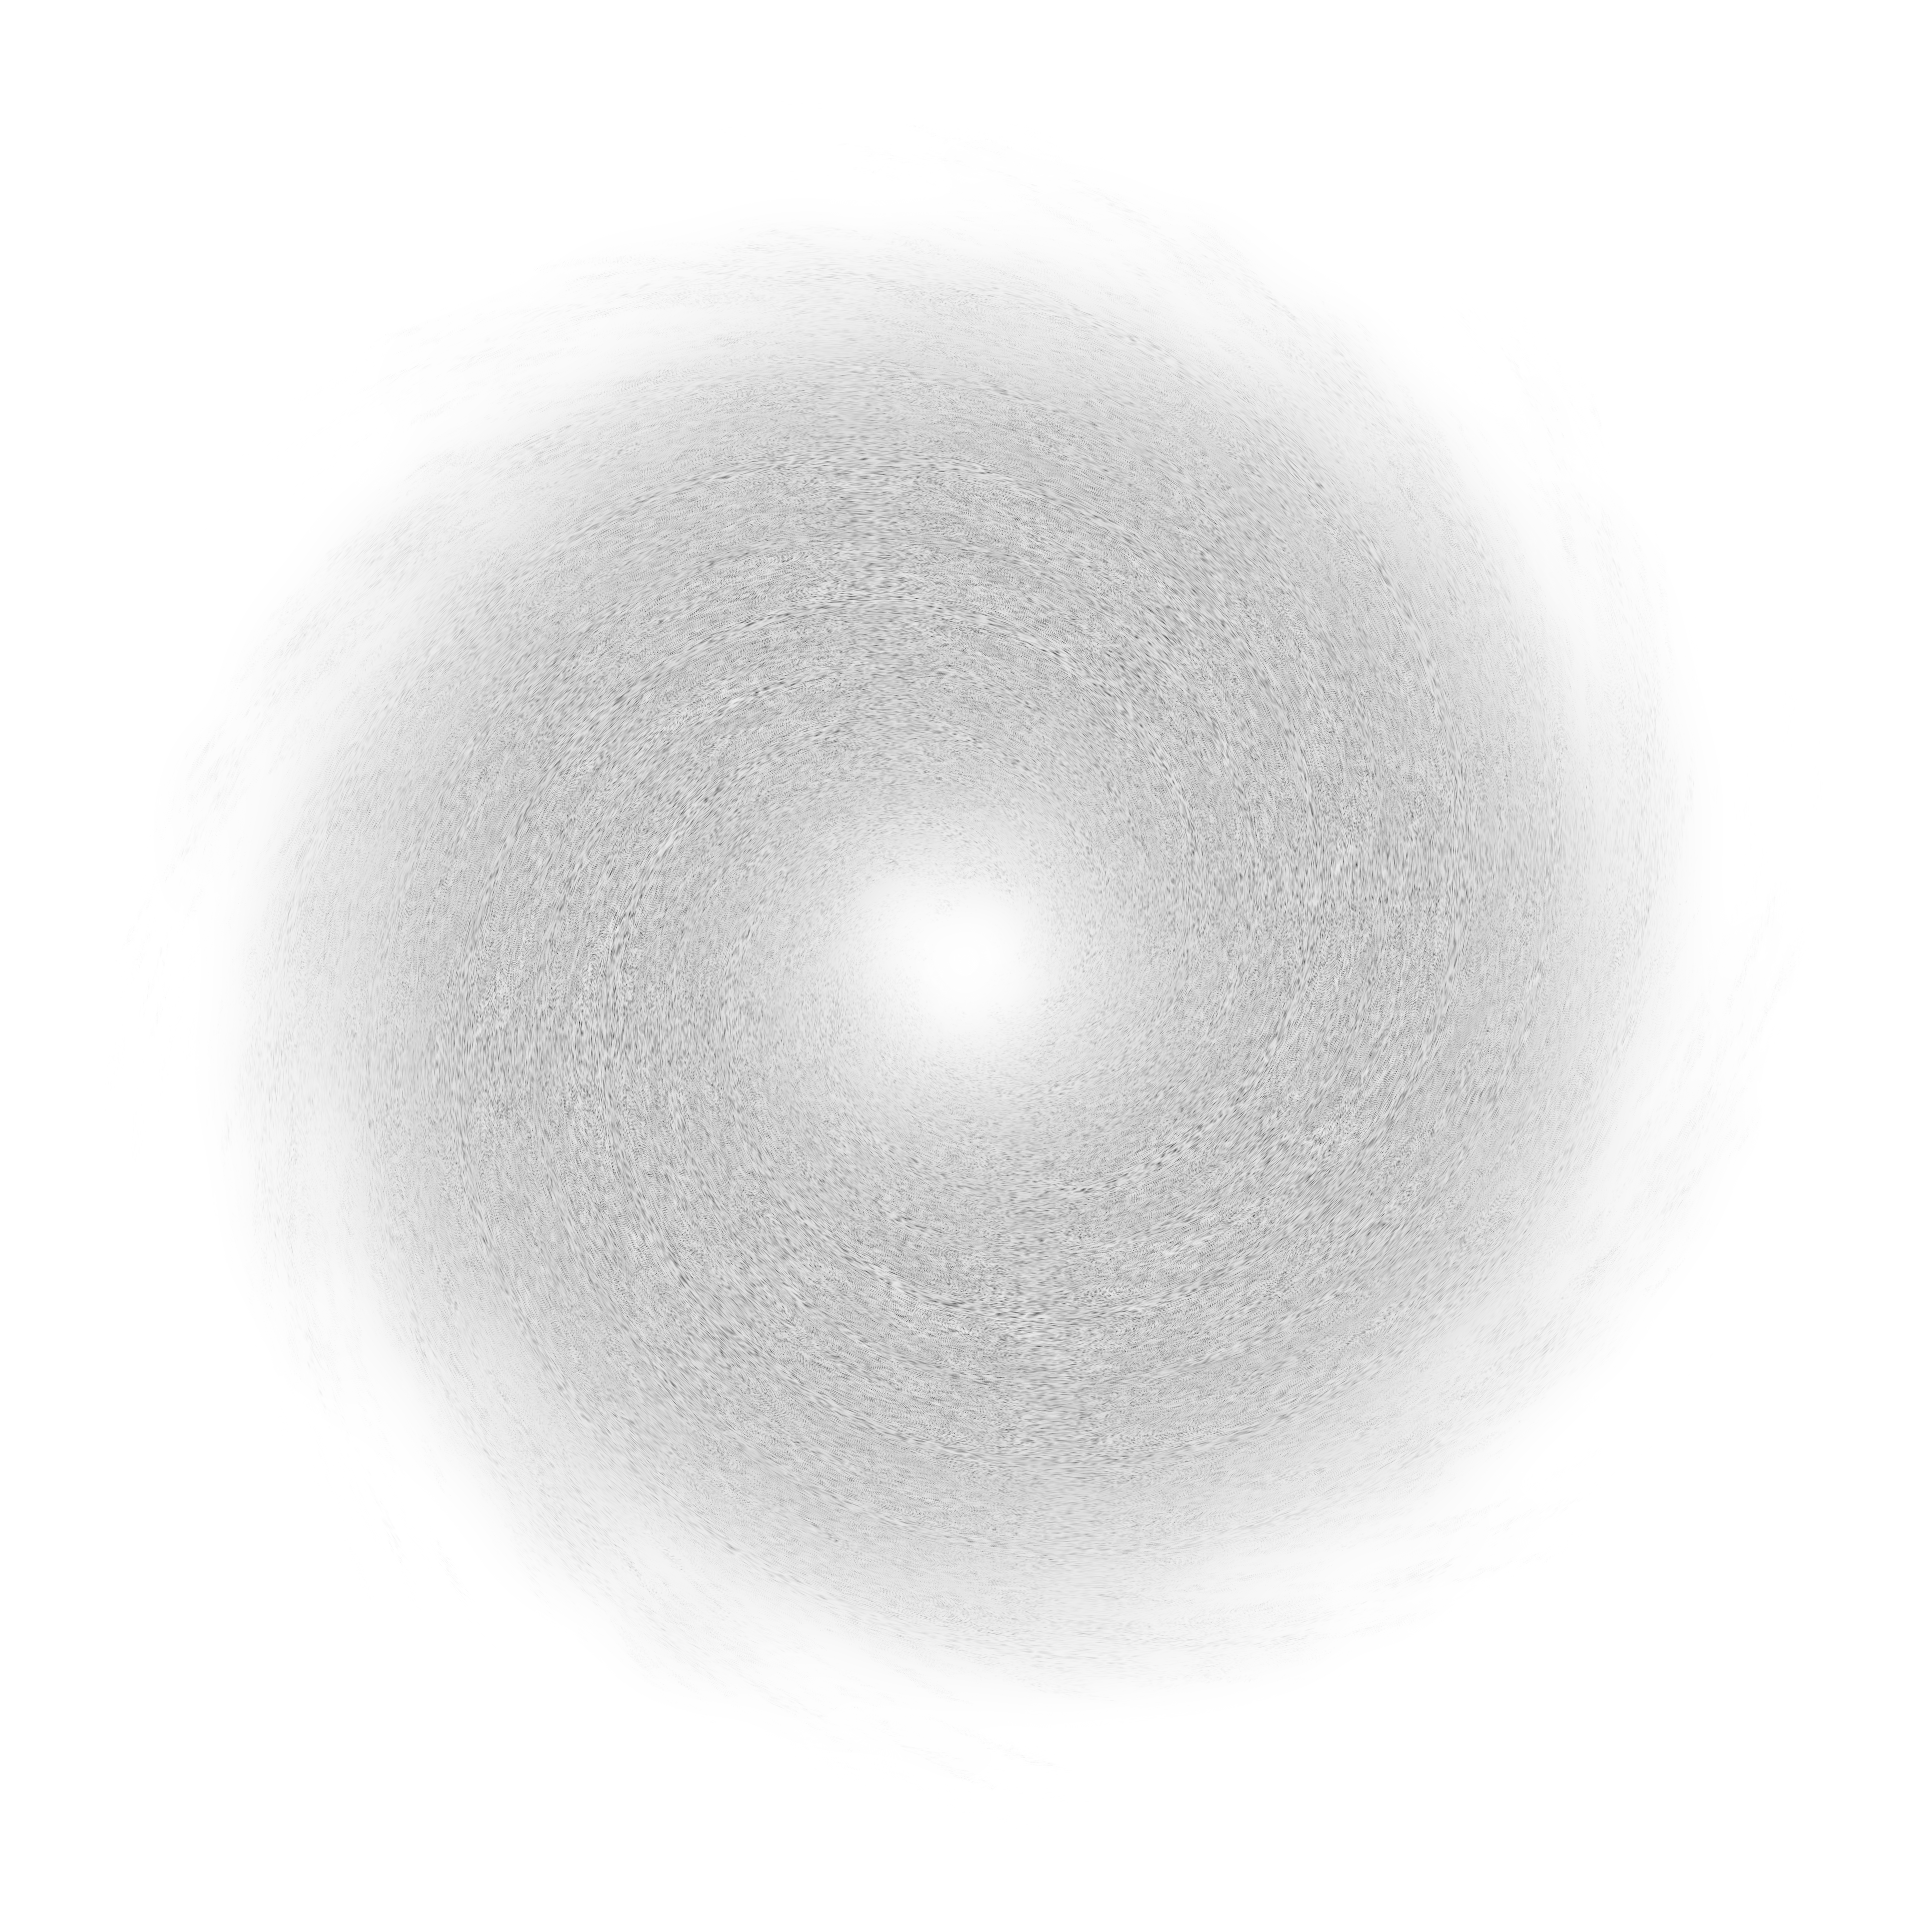
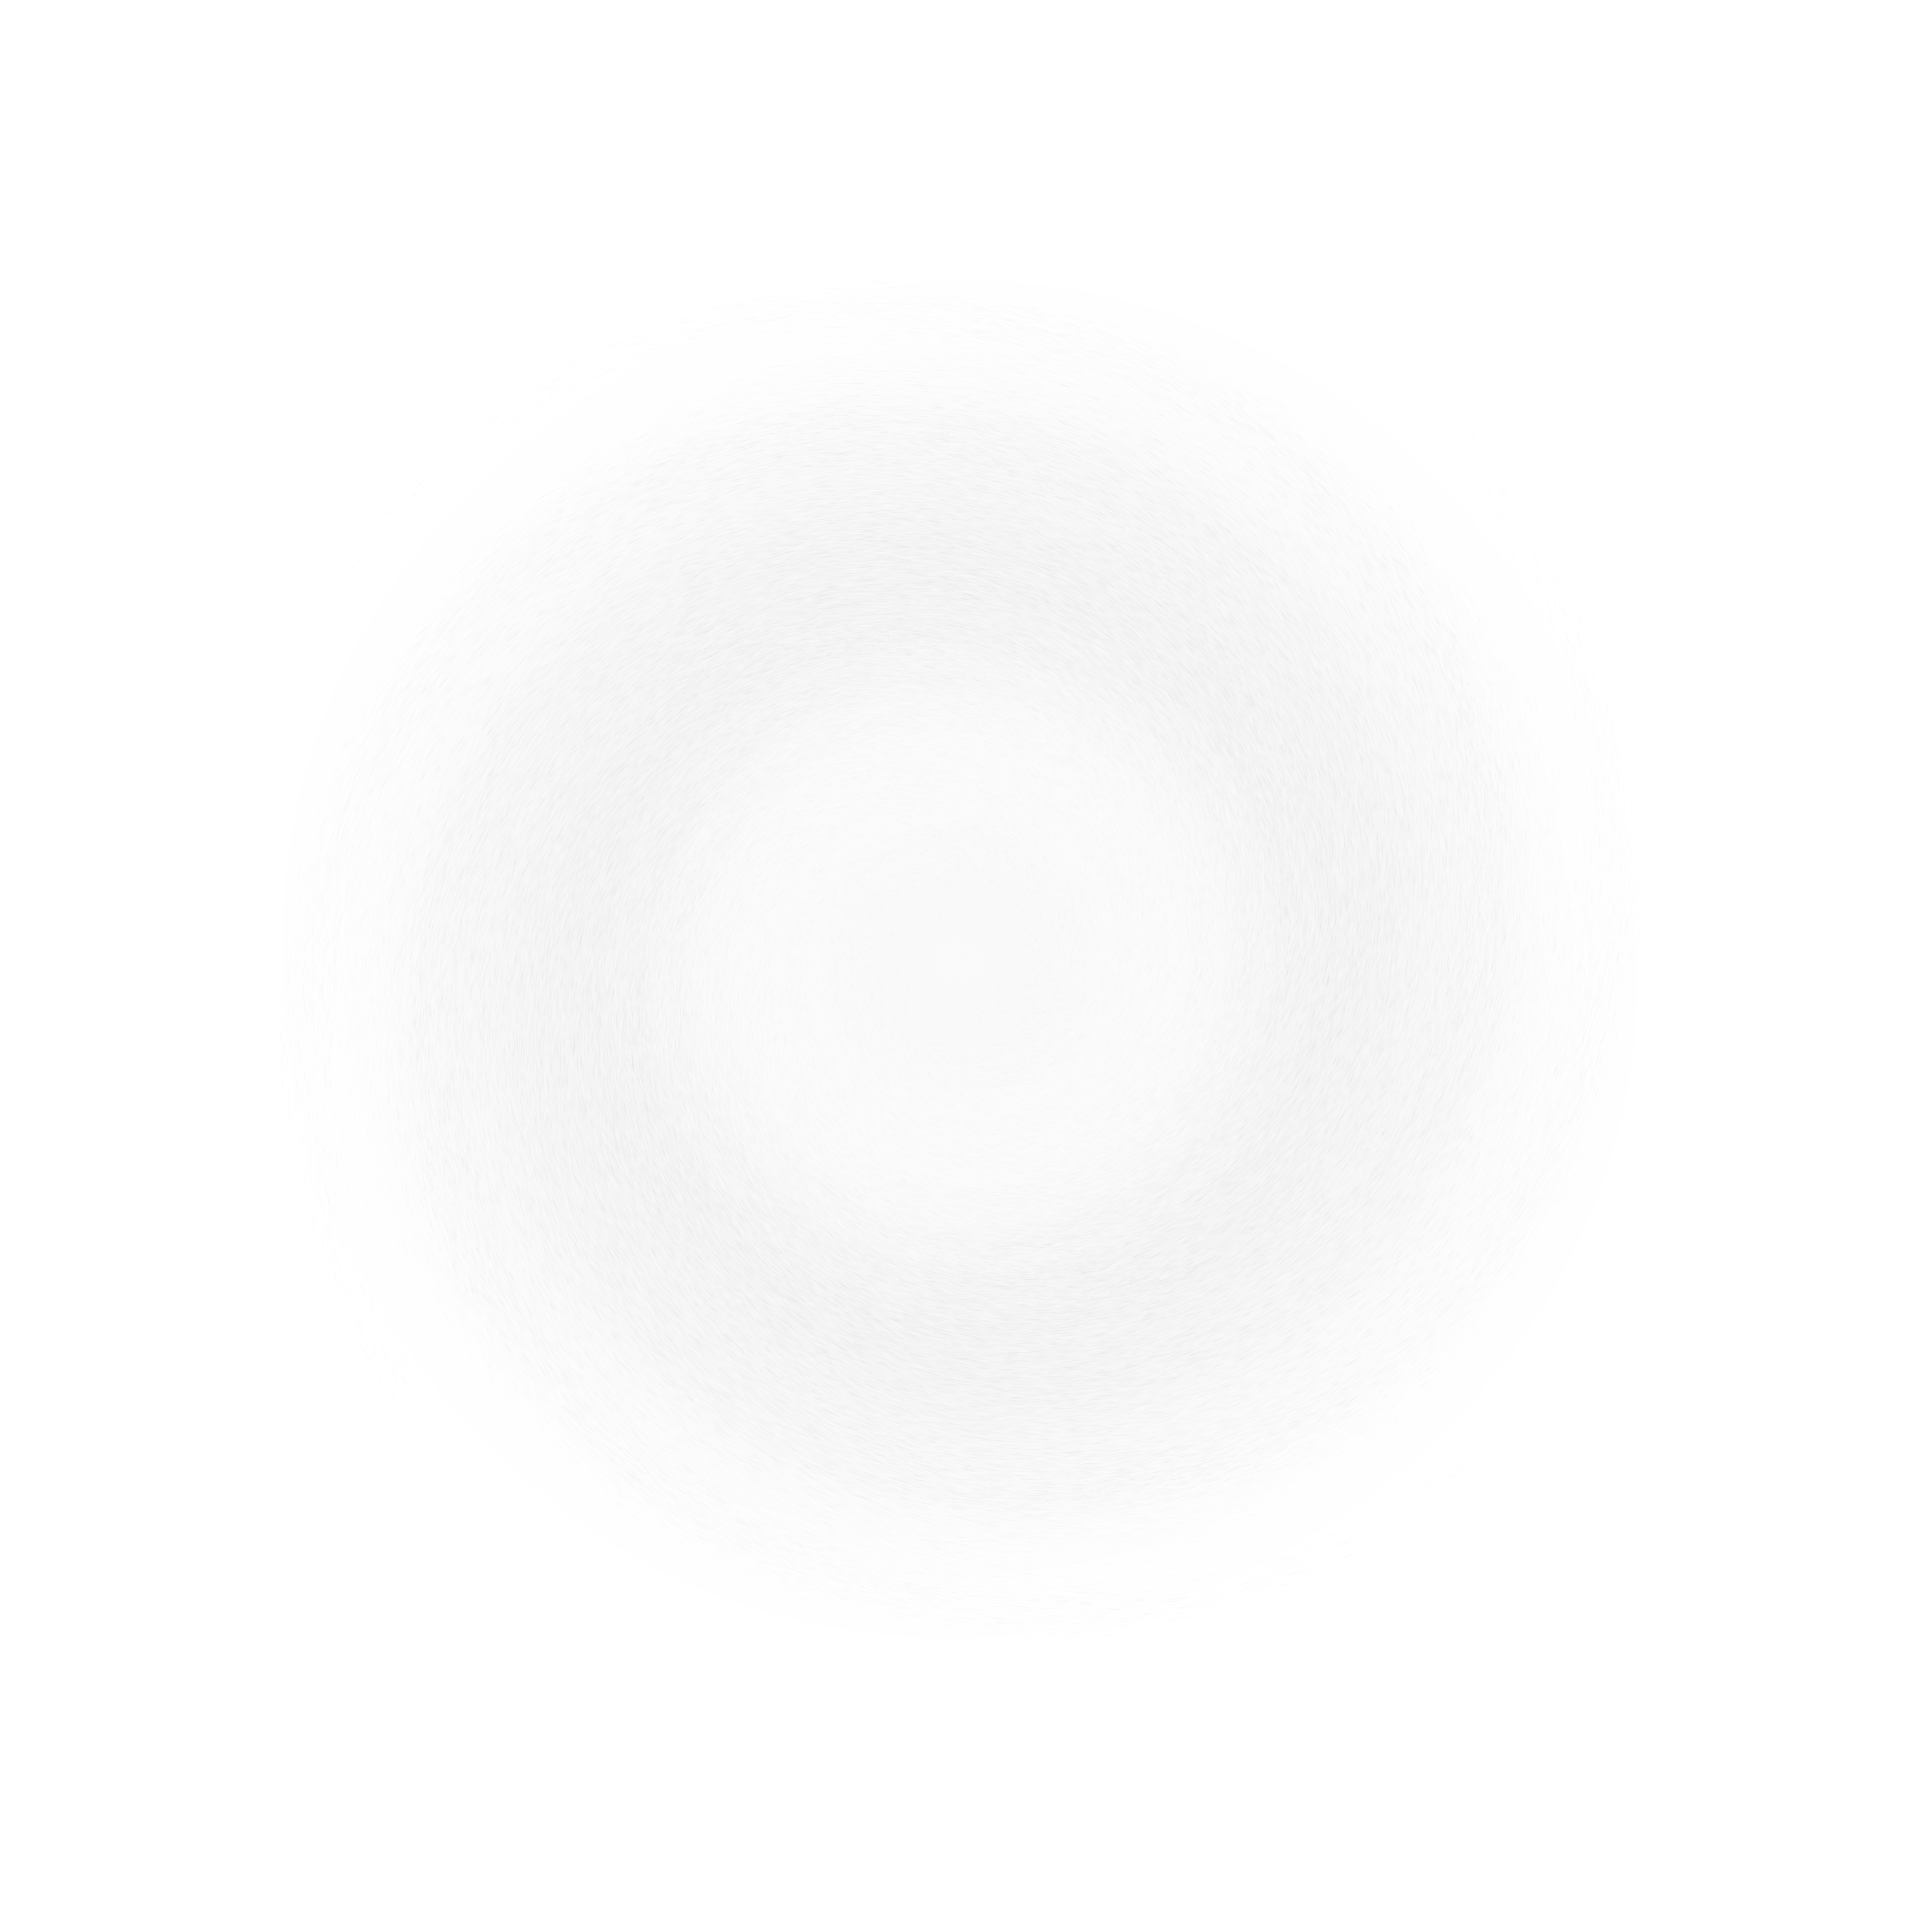
ultra instinct available

diff --git a/NPCs/FloatingDummy.cs b/NPCs/FloatingDummy.cs
@@ -39,13 +39,17 @@ namespace DarknessUnbound.NPCs
             npc.timeLeft = int.MaxValue;
         }
         private float spin { get => npc.ai[0]; set => npc.ai[0] = value; }
+        private float spin2 { get => npc.ai[1]; set => npc.ai[1] = value; }
         public override void AI()
         {
             Player player = Main.LocalPlayer;
 
-            spin += MathHelper.ToRadians(1);
+            spin += MathHelper.ToRadians(0.15f);
             if (spin > MathHelper.ToRadians(360))
                 spin = 0;
+            spin2 += MathHelper.ToRadians(0.325f);
+            if (spin2 > MathHelper.ToRadians(360))
+                spin2 = 0;
 
             if (npc.timeLeft < 10)
                 npc.timeLeft = int.MaxValue;
@@ -86,23 +90,20 @@ namespace DarknessUnbound.NPCs
             {
                 spriteBatch.Draw(outline, posFinal, new Rectangle?(rec), Color.Yellow, npc.rotation, Vector2.Zero, 1f, flipper, 1f);
             }
-        }
 
-        public override bool PreDraw(SpriteBatch spriteBatch, Color drawColor)
-        {
-            Rectangle rec = new Rectangle(0, 0, 1920, 1920);
-            Texture2D massiveDong = ModContent.GetTexture("DarknessUnbound/Effects/Galaxy");
-            spriteBatch.End();
-            spriteBatch.Begin(SpriteSortMode.Deferred, BlendState.NonPremultiplied, Main.DefaultSamplerState, DepthStencilState.None, RasterizerState.CullCounterClockwise, null, Main.GameViewMatrix.ZoomMatrix);
-            spriteBatch.Draw(massiveDong, npc.Center - Main.screenPosition, new Rectangle?(rec), new AnimatedColor(Color.DarkBlue, Color.DarkMagenta).GetColor(), spin, new Vector2(960, 960), 1f, SpriteEffects.None, 1f);
-
+            /*Rectangle rec2 = new Rectangle(0, 0, 1920, 1920);
+            Texture2D baseTex = ModContent.GetTexture("DarknessUnbound/Effects/Galaxy");
+            Texture2D altTex = ModContent.GetTexture("DarknessUnbound/Effects/Galaxy2");
             spriteBatch.End();
             spriteBatch.Begin(SpriteSortMode.Deferred, BlendState.Additive, Main.DefaultSamplerState, DepthStencilState.None, RasterizerState.CullCounterClockwise, null, Main.GameViewMatrix.ZoomMatrix);
-            spriteBatch.Draw(massiveDong, npc.Center - Main.screenPosition, new Rectangle?(rec), new AnimatedColor(Color.LightCyan, Color.Purple).GetColor(), spin, new Vector2(960, 960), 1f, SpriteEffects.None, 1f);
+            spriteBatch.Draw(baseTex, npc.Center - Main.screenPosition, new Rectangle?(rec2), Color.BlueViolet * 0.1f, -spin, new Vector2(960, 960), 1f, SpriteEffects.FlipHorizontally, 1f);
+            spriteBatch.Draw(baseTex, npc.Center - Main.screenPosition, new Rectangle?(rec2), Color.CornflowerBlue, spin2, new Vector2(960, 960), 1f, SpriteEffects.None, 1f);
+            spriteBatch.Draw(altTex, npc.Center - Main.screenPosition, new Rectangle?(rec2), Color.LightCyan * 0.2f, spin2, new Vector2(960, 960), 1f, SpriteEffects.None, 1f);
+            spriteBatch.Draw(altTex, npc.Center - Main.screenPosition, new Rectangle?(rec2), Color.LightSteelBlue, spin, new Vector2(960, 960), 1f, SpriteEffects.None, 1f);
 
             spriteBatch.End();
             spriteBatch.Begin(SpriteSortMode.Deferred, BlendState.AlphaBlend, Main.DefaultSamplerState, DepthStencilState.None, RasterizerState.CullCounterClockwise, null, Main.GameViewMatrix.ZoomMatrix);
-            return true;
+            */
         }
     }
 }
